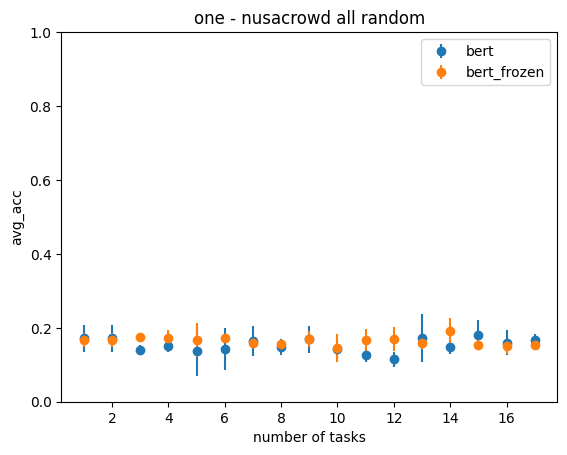
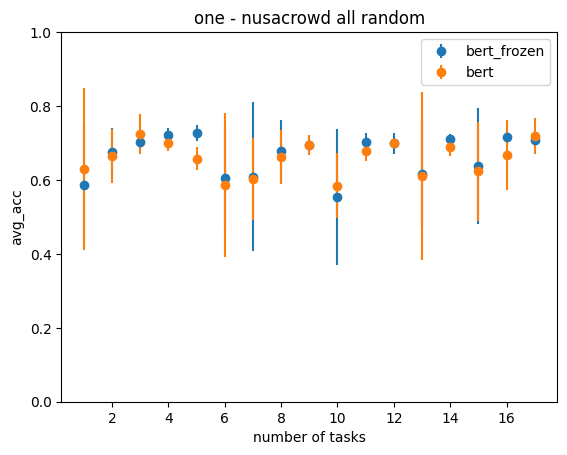
fix one vizzz

diff --git a/src/utils.py b/src/utils.py
@@ -600,6 +600,9 @@ def merge_viz(dir_name, list_exp_id, list_backbone, baseline, case_name, metrics
         if baseline == "mtl":
             df_mtl = pd.read_csv(get_filename(dir_name, exp_id, get_output(list_backbone[i], baseline, exp_id), metrics.replace('avg_', '')), sep="\s+")
             df[exp_id] = df_mtl.iloc[-1].to_list()
+        elif baseline == "one":
+            df_one = pd.read_csv(get_filename(dir_name, exp_id, get_output(list_backbone[i], baseline, exp_id), metrics), sep="\s+", names=[i for i in range(17)])
+            df[exp_id] = df_one.iloc[0].values.tolist()
         else:
             df[exp_id] = pd.read_csv(get_filename(dir_name, exp_id, get_output(list_backbone[i], baseline, exp_id), metrics), sep="\s+", names=[exp_id])
         
